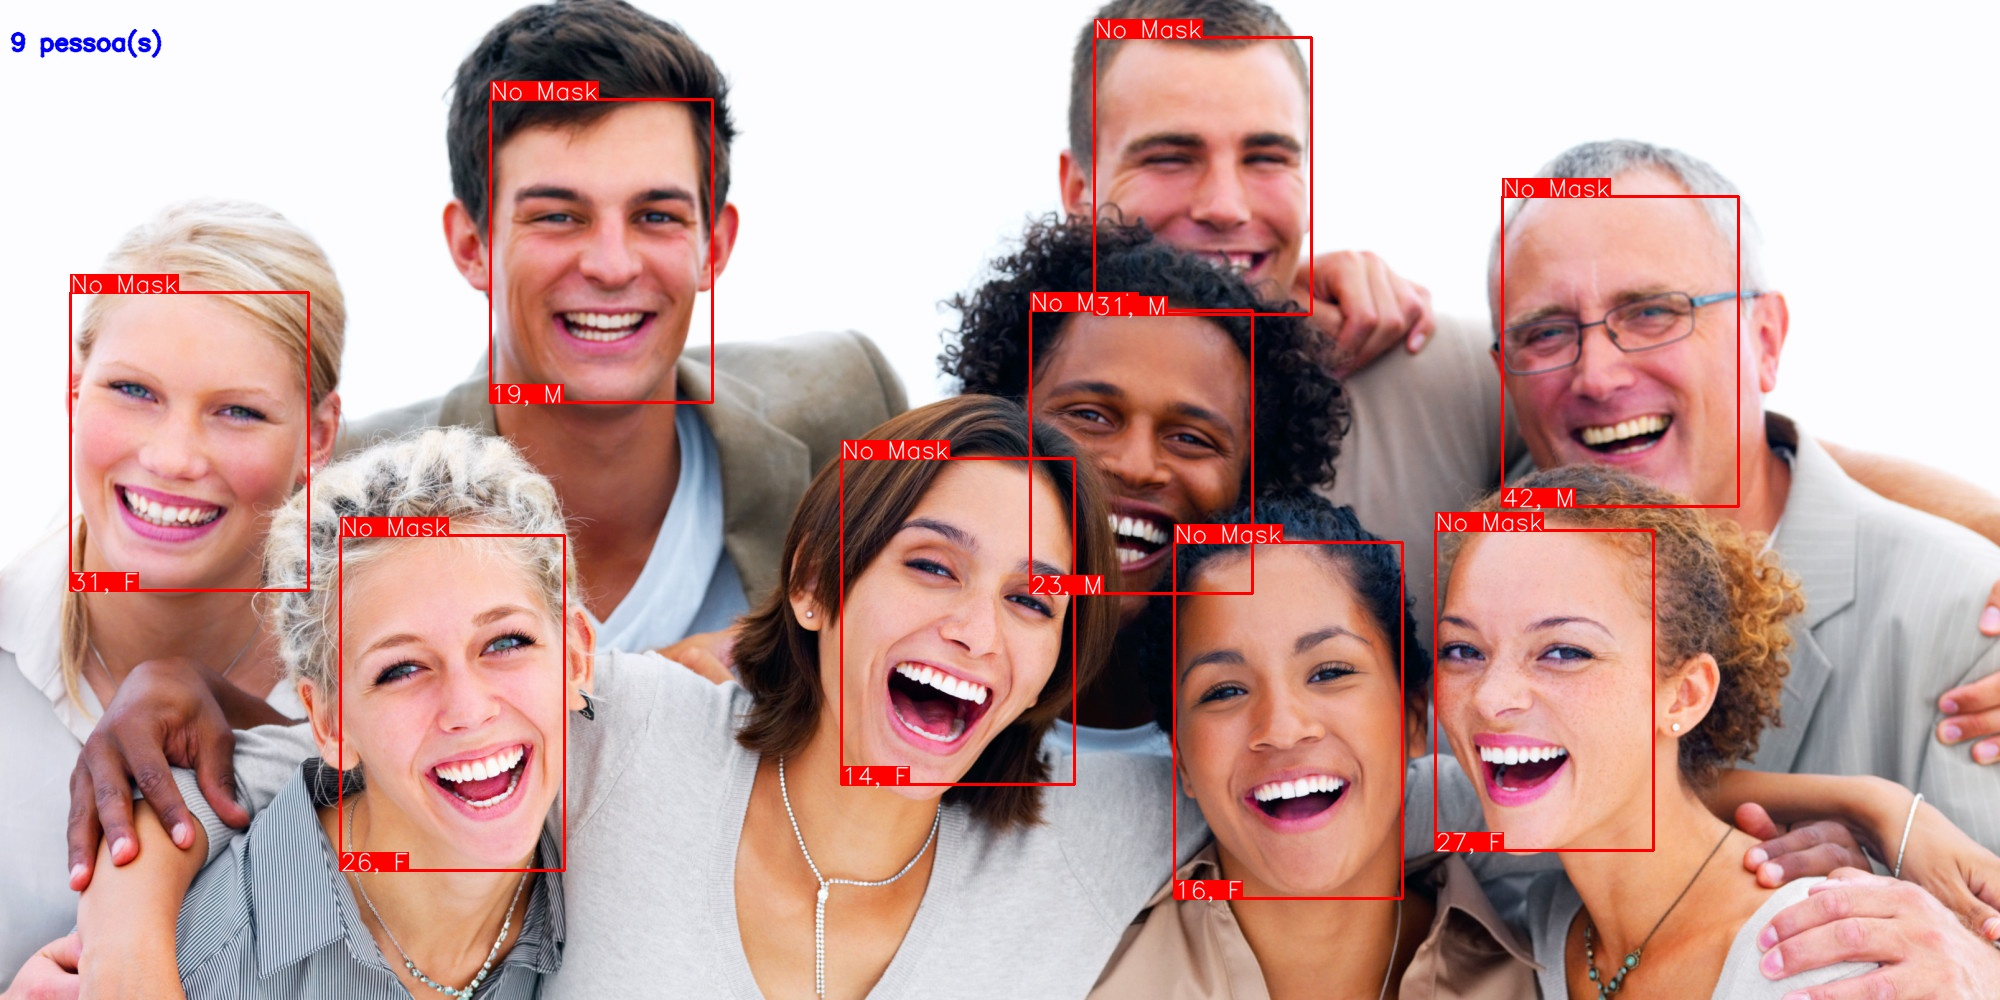
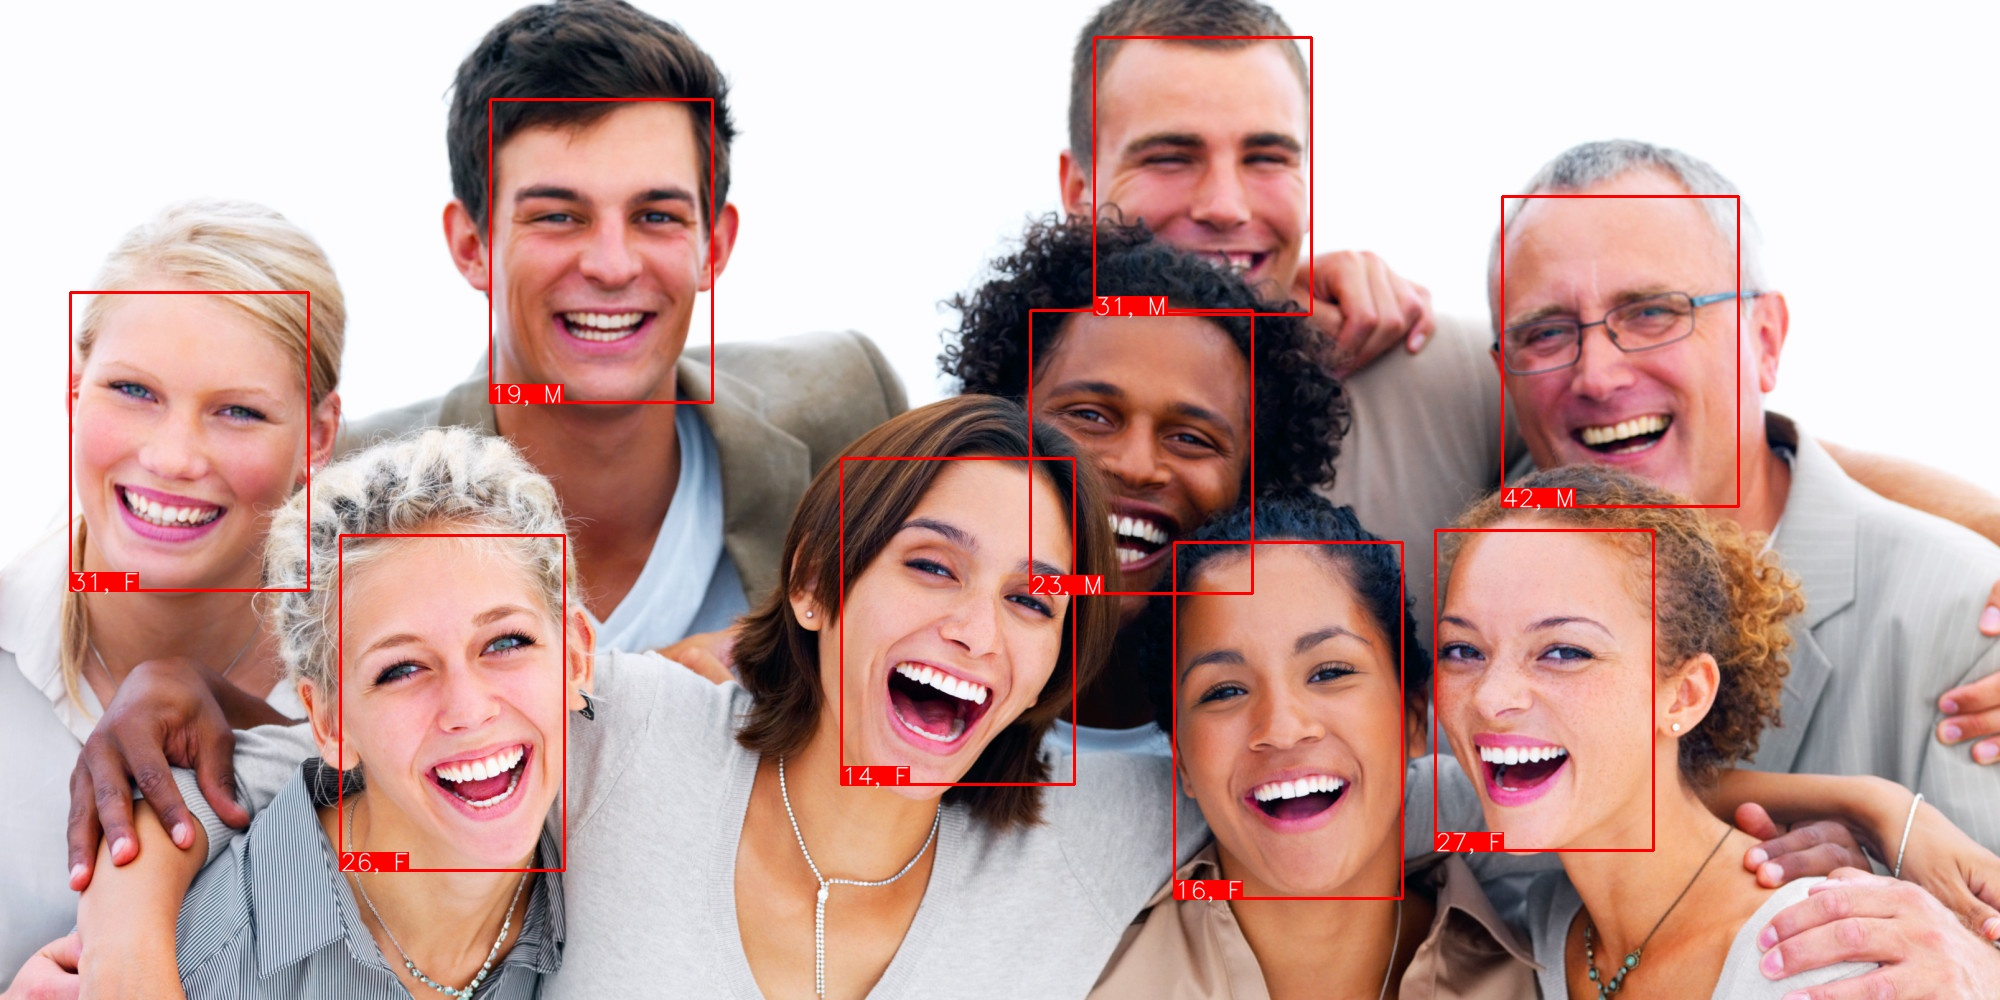
arrumando os códigos para deixar mais eficiente e com variaveis melhores

diff --git a/mask_age_gender.py b/mask_age_gender.py
@@ -1,6 +1,6 @@
 # https://github.com/bruno-gs/fritz_recognizer_image
 # USAGE
-# python detect_mask_image.py --image images/name_of_image.jpeg
+# python mask_age_gender.py --image images/name_of_image.jpeg
 
 # import the necessary packages
 from tensorflow.keras.applications.mobilenet_v2 import preprocess_input
@@ -32,33 +32,23 @@ def mask_image():
 	ap = argparse.ArgumentParser()
 	ap.add_argument("-i", "--image", required=True,
 		help="path to input image")
-	ap.add_argument("-f", "--face", type=str,
-		default="face_detector",
-		help="path to face detector model directory")
-	ap.add_argument("-m", "--model", type=str,
-		default="mask_detector.model",
-		help="path to trained face mask detector model")
-	ap.add_argument("-c", "--confidence", type=float, default=0.5,
-		help="minimum probability to filter weak detections")
 	args = vars(ap.parse_args())
 
 	# load our serialized face detector model from disk
 	print("[INFO] loading face detector model...")
-	prototxtPath = os.path.sep.join([args["face"], "deploy.prototxt"])
-	weightsPath = os.path.sep.join([args["face"],
-		"res10_300x300_ssd_iter_140000.caffemodel"])
+	prototxtPath = os.path.sep.join(["face_detector","deploy.prototxt"])
+	weightsPath = os.path.sep.join(["face_detector","res10_300x300_ssd_iter_140000.caffemodel"])
 	net = cv2.dnn.readNet(prototxtPath, weightsPath)
 
 	# load the face mask detector model from disk
 	print("[INFO] loading face mask detector model...")
-	model = load_model(args["model"])
+	model = load_model("mask_detector.model")
 
 	# load the input image from disk, clone it, and grab the image spatial dimensions
 	image = cv2.imread(args["image"])
 	orig = image.copy()
 	(h, w) = image.shape[:2]
 
-	# (700,700) para imagens de 1280x720 - otimo
 	#function to facilitate image preprocessing for deep learning classification
 	blob = cv2.dnn.blobFromImage(image, 1.0, (700,700), (104.0, 177.0, 123.0))
 	
@@ -66,38 +56,38 @@ def mask_image():
 	print("[INFO] computing face detections...")
 	net.setInput(blob)
 	detections = net.forward()
+	
+	# For the total of recognized faces
 	num = 0	
 	for i in detections:
 		for j in i:
 			for k in j:				
 				if k[2] > 0.5:
-					num+=1 #print(num) quantidade de pessoas identificadas	
+					num+=1 	
 	
 	weight_file = get_file("EfficientNetB3_224_weights.11-3.44.hdf5", pretrained_model, cache_subdir="pretrained_models",
                                file_hash=modhash, cache_dir=str(Path(__file__).resolve().parent))
 	model_name, img_size = Path(weight_file).stem.split("_")[:2]
 	img_size = int(img_size)
 	cfg = OmegaConf.from_dotlist([f"model.model_name={model_name}", f"model.img_size={img_size}"])
-	model1 = get_model(cfg)
-	model1.load_weights(weight_file)
+	model_age = get_model(cfg)
+	model_age.load_weights(weight_file)
 	
-	i=0
-	j=0
 	for i in range(0, detections.shape[2]):
 		confidence = detections[0, 0, i, 2]
-		if confidence > args["confidence"]:
-			#print(confidence)
+		# minimum probability to filter weak detections
+		if confidence > 0.5:
+			
 			# compute the (x, y)-coordinates of the bounding box for the object
 			box = detections[0, 0, i, 3:7] * np.array([w, h, w, h])
 			(startX, startY, endX, endY) = box.astype("int")
-
-			faces = np.empty((1, img_size, img_size, 3))
+			age_faces = np.empty((1, img_size, img_size, 3))
 			x1, y1, x2, y2, w1, h1 = startX , startY , endX + 1, endY + 1, w, h
 			xw1 = max(int(x1 - 0 * w1), 0)
 			yw1 = max(int(y1 - 0 * h1), 0)
 			xw2 = min(int(x2 + 0 * w1), w - 1)
 			yw2 = min(int(y2 + 0 * h1), h - 1)
-			faces[0] = cv2.resize(image[yw1:yw2 + 1, xw1:xw2 + 1], (img_size, img_size))
+			age_faces[0] = cv2.resize(image[yw1:yw2 + 1, xw1:xw2 + 1], (img_size, img_size))
 			
 			# ensure the bounding boxes fall within the dimensions of the frame
 			(startX, startY) = (max(0, startX), max(0, startY))
@@ -105,25 +95,25 @@ def mask_image():
 
 			# extract the face ROI, convert it from BGR to RGB channel
 			# ordering, resize it to 224x224, and preprocess it
+			# For Mask Detection
 			faceS = image[startY:endY, startX:endX]
 			face = cv2.cvtColor(faceS, cv2.COLOR_BGR2RGB)
 			face = cv2.resize(face, (244, 244))
 			face = img_to_array(face)
 			face = preprocess_input(face)
-			face = np.expand_dims(face, axis=0)
+			mask_face = np.expand_dims(face, axis=0)
 
-			# pass the face through the model to determine if the face
-			# has a mask or not
-			(mask, withoutMask) = model.predict(face)[0]
+			# pass the face through the model to determine if the face has a mask or not
+			(mask, withoutMask) = model.predict(mask_face)[0]
 
-			# determine the class label and color we'll use to draw
-			# the bounding box and text
+			# determine the class label and color we'll use to draw the bounding box and text
+			# Blue -> Mask || Red -> No Mask
 			label = "Mask" if mask > withoutMask else "No Mask"
 			color = (0, 255, 0) if label == "Mask" else (0, 0, 255)
 			
-
-			# include the probability in the label
+			# For include the probability in the label
 			#label = "{}: {:.2f}%".format(label, max(mask, withoutMask) * 100)
+
 			if label == "Mask":
 				cv2.rectangle(image, (startX, startY), (endX, endY), color, 2)
 				font = cv2.FONT_HERSHEY_SIMPLEX
@@ -133,35 +123,34 @@ def mask_image():
 				cv2.rectangle(image, (x, y - size[1]), (x + size[0], y), color, cv2.FILLED)
 				cv2.putText(image, label, point, font, 0.8, (255, 255, 255), 1, lineType=cv2.LINE_AA)
 			else:
-				results = model1.predict(faces)
+				results = model_age.predict(age_faces)
 				predicted_genders = results[0]
-				#print(predicted_genders)
 				ages = np.arange(0, 101).reshape(101, 1)
 				predicted_ages = results[1].dot(ages).flatten()
-				#print(predicted_ages)
-				
+				# Definitions for Bounding Box Design and Results
 				label1 = "{}, {}".format(int(predicted_ages[0]), "M" if predicted_genders[0][0] < 0.5 else "F")
 				cv2.rectangle(image, (startX, startY), (endX, endY), color, 2)
 				font = cv2.FONT_HERSHEY_SIMPLEX
+				# Mask
 				size = cv2.getTextSize(label, font, 0.8, 1)[0]
-				size1 = cv2.getTextSize(label1, font, 0.8, 1)[0]
 				point = (startX, startY)
 				x, y = point
+				# Age and Gender
+				size1 = cv2.getTextSize(label1, font, 0.8, 1)[0]
 				point1 = (startX,endY)
 				x1, y1 = point1
+
 				cv2.rectangle(image, (x, y - size[1]), (x + size[0], y), color, cv2.FILLED)
 				cv2.putText(image, label, point, font, 0.8, (255, 255, 255), 1, lineType=cv2.LINE_AA)
 				cv2.rectangle(image, (x1, y1 - size1[1]), (x1 + size1[0], y1), color, cv2.FILLED)
 				cv2.putText(image, label1, point1, font, 0.8, (255, 255, 255), 1, lineType=cv2.LINE_AA)
-			i+=1
-			#draw
 					
+	# Print the total of people recognize
+	# cv2.putText(image, "{} pessoa(s)".format(num),(10,50), cv2.FONT_HERSHEY_SIMPLEX, 0.8, (255,0,0),2,cv2.LINE_AA) 
 	
-	cv2.putText(image, "{} pessoa(s)".format(num),(10,50), cv2.FONT_HERSHEY_SIMPLEX, 0.8, (255,0,0),2,cv2.LINE_AA) #total de pessoas
 	# show the output image
 	cv2.imwrite("log/log.jpg", image)
-	#cv2.imshow("Output", image)   # Aparecer imagem na hora
-	#cv2_plt_imshow(image)
+
 
 if __name__ == "__main__":
 	mask_image()

diff --git a/only_age_gender.py b/only_age_gender.py
@@ -1,6 +1,6 @@
 # https://github.com/bruno-gs/fritz_recognizer_image
 # USAGE
-# python onlyagegender.py --image images/name_of_image.jpeg
+# python only_age_gender.py --image images/name_of_image.jpeg
 
 # import the necessary packages
 from tensorflow.keras.applications.mobilenet_v2 import preprocess_input
@@ -11,13 +11,18 @@ import argparse
 import cv2
 import os
 from pathlib import Path
-import face_recognition
-import dlib
-from contextlib import contextmanager
 from omegaconf import OmegaConf
 from tensorflow.keras.utils import get_file
 from src.factory import get_model
-from PIL import Image, ImageDraw, ImageFont
+from PIL import Image
+
+# packages out -- Conditions
+# import face_recognition
+# import dlib
+# from contextlib import contextmanager
+# from PIL import ImageDraw, ImageFont
+# import matplotlib.pyplot as plt
+# from cv2_plt_imshow import cv2_plt_imshow, plt_format
 
 pretrained_model = "https://github.com/yu4u/age-gender-estimation/releases/download/v0.6/EfficientNetB3_224_weights.11-3.44.hdf5"
 modhash = '6d7f7b7ced093a8b3ef6399163da6ece'
@@ -27,27 +32,14 @@ def mask_image():
 	ap = argparse.ArgumentParser()
 	ap.add_argument("-i", "--image", required=True,
 		help="path to input image")
-	ap.add_argument("-f", "--face", type=str,
-		default="face_detector",
-		help="path to face detector model directory")
-	ap.add_argument("-m", "--model", type=str,
-		default="mask_detector.model",
-		help="path to trained face mask detector model")
-	ap.add_argument("-c", "--confidence", type=float, default=0.5,
-		help="minimum probability to filter weak detections")
 	args = vars(ap.parse_args())
 
 	# load our serialized face detector model from disk
 	print("[INFO] loading face detector model...")
-	prototxtPath = os.path.sep.join([args["face"], "deploy.prototxt"])
-	weightsPath = os.path.sep.join([args["face"],
-		"res10_300x300_ssd_iter_140000.caffemodel"])
+	prototxtPath = os.path.sep.join(["face_detector","deploy.prototxt"])
+	weightsPath = os.path.sep.join(["face_detector","res10_300x300_ssd_iter_140000.caffemodel"])
 	net = cv2.dnn.readNet(prototxtPath, weightsPath)
-
-	# load the face mask detector model from disk
-	#print("[INFO] loading face mask detector model...")
-	#model = load_model(args["model"])
-
+	
 	# load the input image from disk, clone it, and grab the image spatial dimensions
 	image = cv2.imread(args["image"])
 	orig = image.copy()
@@ -60,101 +52,57 @@ def mask_image():
 	print("[INFO] computing face detections...")
 	net.setInput(blob)
 	detections = net.forward()
+
+	# For the total of recognized faces
 	num = 0	
 	for i in detections:
 		for j in i:
 			for k in j:				
 				if k[2] > 0.5:
-					num+=1 #print(num) quantidade de pessoas identificadas	
+					num+=1 	
 	
 	weight_file = get_file("EfficientNetB3_224_weights.11-3.44.hdf5", pretrained_model, cache_subdir="pretrained_models",
                                file_hash=modhash, cache_dir=str(Path(__file__).resolve().parent))
 	model_name, img_size = Path(weight_file).stem.split("_")[:2]
 	img_size = int(img_size)
 	cfg = OmegaConf.from_dotlist([f"model.model_name={model_name}", f"model.img_size={img_size}"])
-	model1 = get_model(cfg)
-	model1.load_weights(weight_file)
-	
-	i=0
-	j=0
+	model_age = get_model(cfg)
+	model_age.load_weights(weight_file)
+
 	for i in range(0, detections.shape[2]):
 		confidence = detections[0, 0, i, 2]
-		if confidence > args["confidence"]:
-			#print(confidence)
+		# minimum probability to filter weak detections
+		if confidence > 0.5:
 			# compute the (x, y)-coordinates of the bounding box for the object
 			box = detections[0, 0, i, 3:7] * np.array([w, h, w, h])
 			(startX, startY, endX, endY) = box.astype("int")
-
-			faces = np.empty((1, img_size, img_size, 3))
+			age_faces = np.empty((1, img_size, img_size, 3))
 			x1, y1, x2, y2, w1, h1 = startX , startY , endX + 1, endY + 1, w, h
 			xw1 = max(int(x1 - 0 * w1), 0)
 			yw1 = max(int(y1 - 0 * h1), 0)
 			xw2 = min(int(x2 + 0 * w1), w - 1)
 			yw2 = min(int(y2 + 0 * h1), h - 1)
-			faces[0] = cv2.resize(image[yw1:yw2 + 1, xw1:xw2 + 1], (img_size, img_size))
-			
-			# ensure the bounding boxes fall within the dimensions of the frame
+			age_faces[0] = cv2.resize(image[yw1:yw2 + 1, xw1:xw2 + 1], (img_size, img_size))
 			(startX, startY) = (max(0, startX), max(0, startY))
 			(endX, endY) = (min(w - 1, endX), min(h - 1, endY))
-
-			# extract the face ROI, convert it from BGR to RGB channel
-			# ordering, resize it to 224x224, and preprocess it
-			faceS = image[startY:endY, startX:endX]
-			face = cv2.cvtColor(faceS, cv2.COLOR_BGR2RGB)
-			face = cv2.resize(face, (244, 244))
-			face = img_to_array(face)
-			face = preprocess_input(face)
-			face = np.expand_dims(face, axis=0)
-
-			# pass the face through the model to determine if the face
-			# has a mask or not
-			#(mask, withoutMask) = model.predict(face)[0]
-
-			# determine the class label and color we'll use to draw
-			# the bounding box and text
-			#label = "Mask" if mask > withoutMask else "No Mask"
-			#color = (0, 255, 0) if label == "Mask" else (0, 0, 255)
 			color = (0, 0, 255)
-
-			# include the probability in the label
-			#label = "{}: {:.2f}%".format(label, max(mask, withoutMask) * 100)
-			'''if label == "Mask":
-				cv2.rectangle(image, (startX, startY), (endX, endY), color, 2)
-				font = cv2.FONT_HERSHEY_SIMPLEX
-				size = cv2.getTextSize(label, font, 0.8, 1)[0]
-				point = (startX, startY)
-				x, y = point
-				cv2.rectangle(image, (x, y - size[1]), (x + size[0], y), color, cv2.FILLED)
-				cv2.putText(image, label, point, font, 0.8, (255, 255, 255), 1, lineType=cv2.LINE_AA)
-			else:'''
-			results = model1.predict(faces)
+			results = model_age.predict(age_faces)
 			predicted_genders = results[0]
-			#print(predicted_genders)
 			ages = np.arange(0, 101).reshape(101, 1)
-			predicted_ages = results[1].dot(ages).flatten()
-			#print(predicted_ages)
-				
+			predicted_ages = results[1].dot(ages).flatten()	
 			label1 = "{}, {}".format(int(predicted_ages[0]), "M" if predicted_genders[0][0] < 0.5 else "F")
 			cv2.rectangle(image, (startX, startY), (endX, endY), color, 2)
 			font = cv2.FONT_HERSHEY_SIMPLEX
 			size = cv2.getTextSize(label1, font, 0.8, 1)[0]
-			point = (startX, startY)
-			x, y = point
 			point1 = (startX,endY)
 			x1, y1 = point1
-			#cv2.rectangle(image, (x, y - size[1]), (x + size[0], y), color, cv2.FILLED)
-			#cv2.putText(image, label, point, font, 0.8, (255, 255, 255), 1, lineType=cv2.LINE_AA)
 			cv2.rectangle(image, (x1, y1 - size[1]), (x1 + size[0], y1), color, cv2.FILLED)
 			cv2.putText(image, label1, point1, font, 0.8, (255, 255, 255), 1, lineType=cv2.LINE_AA)
-			i+=1
-			#draw
-					
-	
-	cv2.putText(image, "{} pessoa(s)".format(num),(10,50), cv2.FONT_HERSHEY_SIMPLEX, 0.8, (255,0,0),2,cv2.LINE_AA) #total de pessoas
-	# show the output image
-	cv2.imshow("Output", image)
-	cv2.waitKey(0)
+			
+	cv2.imwrite("log/log.jpg", image)
 	
 if __name__ == "__main__":
 	mask_image()
+	im = Image.open("log/log.jpg")
+	im.show()
 

diff --git a/README.md b/README.md
@@ -51,7 +51,7 @@ $ pip3 install -r requirements.txt
 
 2. Open terminal. To detect face masks or age and gender in an image type the following command:
 ```
-$ python3 detect_mask_image.py --image images/name_of_image.jpeg
+$ python3 mask_age_gender.py --image images/name_of_image.jpeg
 ```
 3. The result will appear on your screen, but this log will also be in the "log" folder.
 
